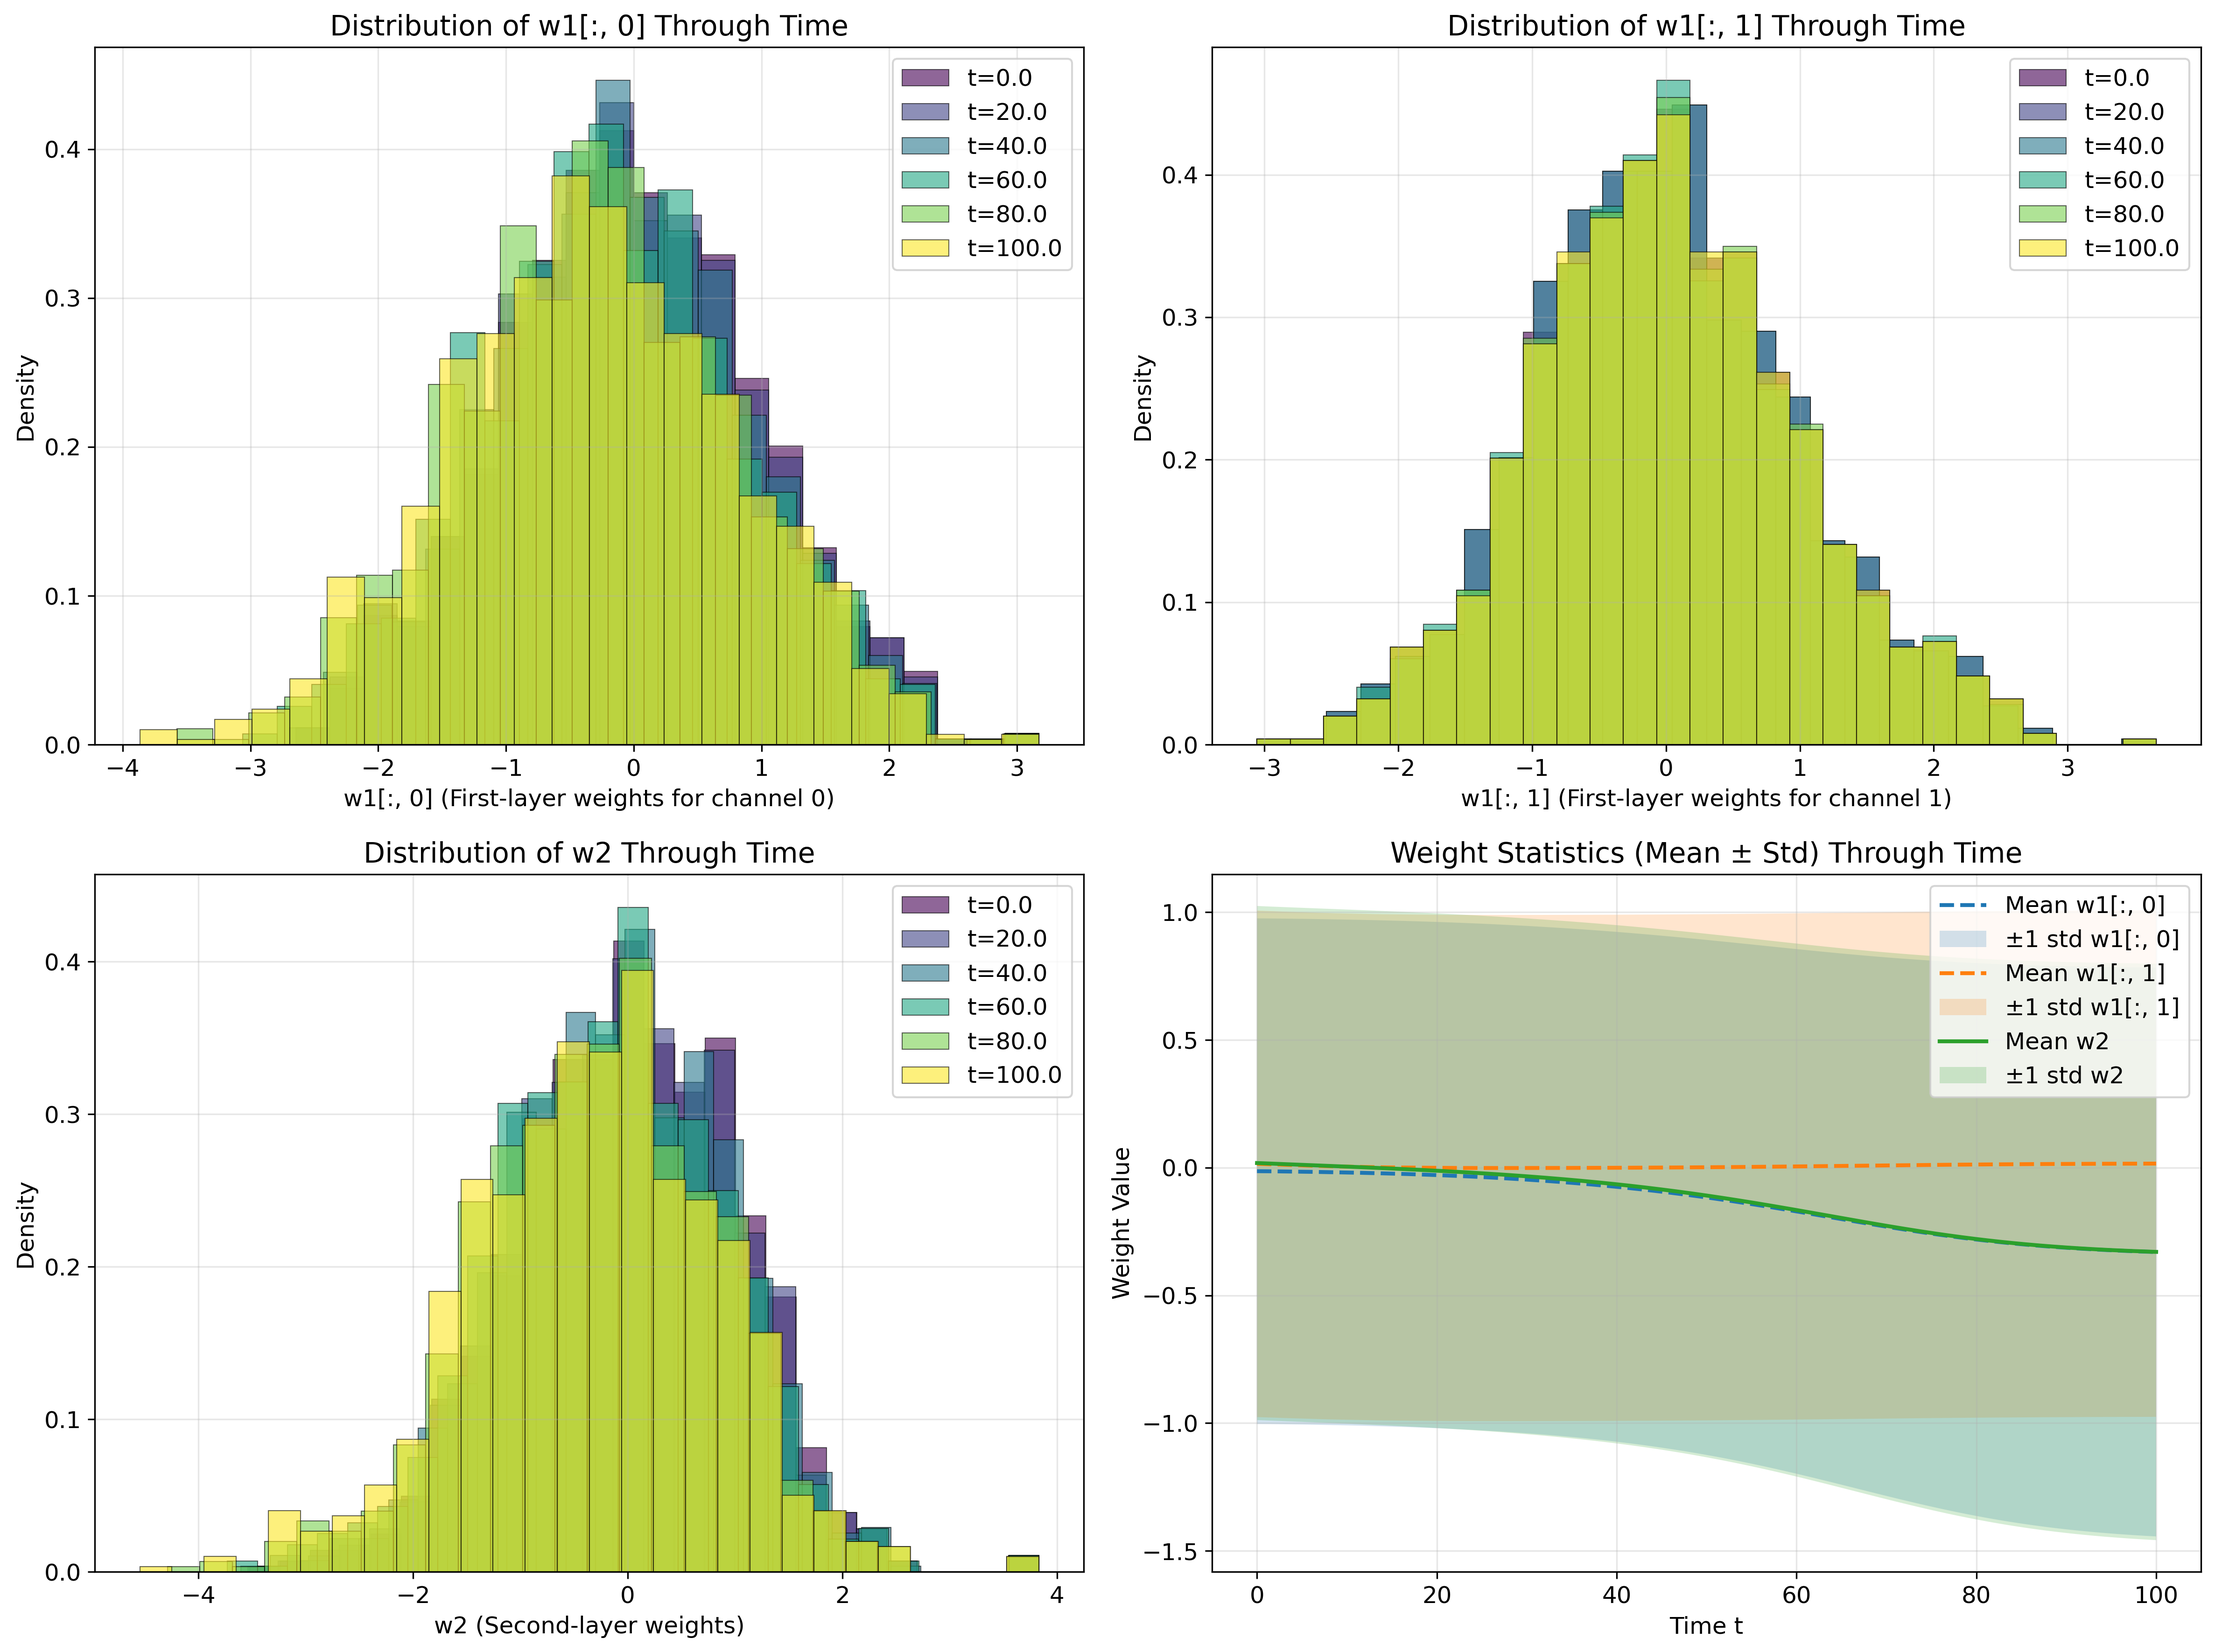
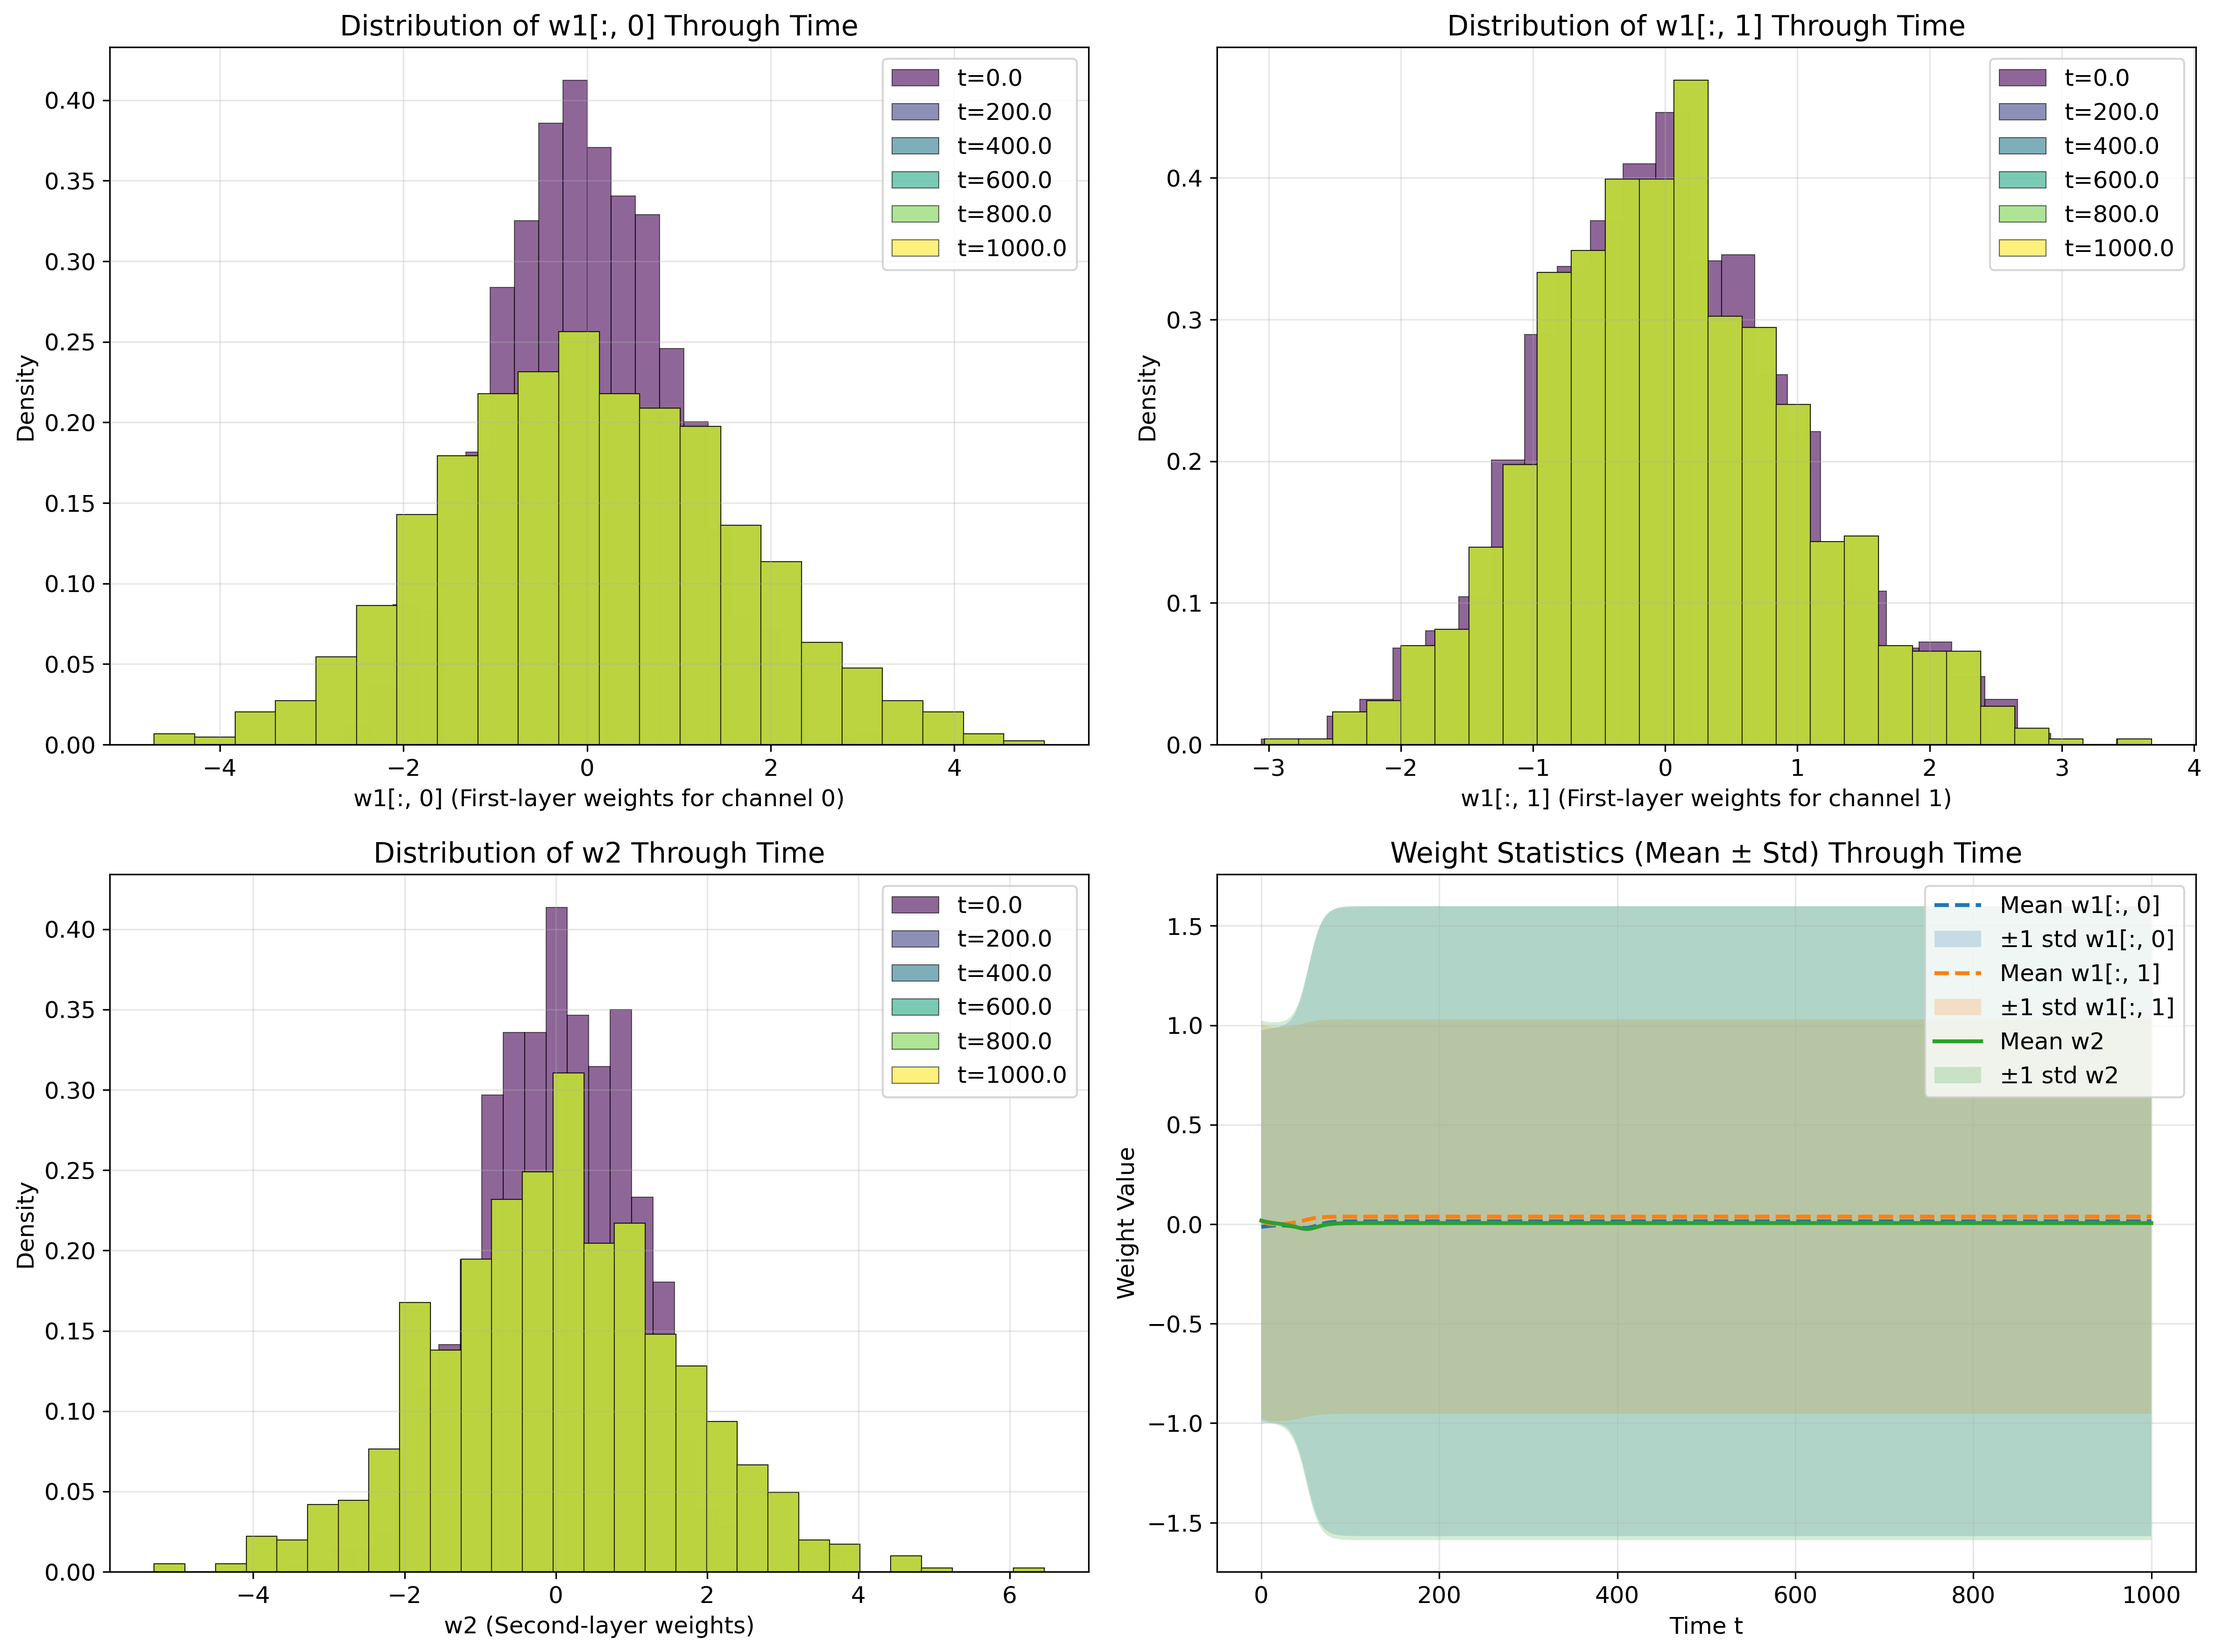
mean field eq sharpen variance

diff --git a/experiments/table/train_multi_frequency_benchmark.py b/experiments/table/train_multi_frequency_benchmark.py
@@ -53,9 +53,10 @@ def generate_configs():
     """we generate configurations to test"""
     configs = []
     
-    # we test different ranks and fixWb options
+    # we test different ranks, fixWb options, and batch sizes
     ranks = [10, 15, 20, 25, 50, 100]
     fixWb_options = [False, True]
+    batch_sizes = [50, 100, 200]  # we test 0.5x, 1x, and 2x batch sizes
     
     base_config = {
         "num_layers": 8,
@@ -64,7 +65,6 @@ def generate_configs():
         "output_rank": 1,
         "use_resnet": False,
         "num_epochs": 30000,
-        "batch_size": 100,
         "lr_init": 0.001,
         "lr_gamma": 0.9,
         "lr_step_size": 100,
@@ -79,12 +79,14 @@ def generate_configs():
     
     for rank in ranks:
         for fixWb in fixWb_options:
-            config = base_config.copy()
-            config.update({
-                "hidden_rank": rank,
-                "fixWb": fixWb,
-            })
-            configs.append(config)
+            for batch_size in batch_sizes:
+                config = base_config.copy()
+                config.update({
+                    "hidden_rank": rank,
+                    "fixWb": fixWb,
+                    "batch_size": batch_size,
+                })
+                configs.append(config)
     
     return configs
 
@@ -348,6 +350,7 @@ def main():
     print(f"\ngenerated {len(configs)} configurations")
     print(f"  ranks: {sorted(set(c['hidden_rank'] for c in configs))}")
     print(f"  fixWb: True, False")
+    print(f"  batch sizes: {sorted(set(c['batch_size'] for c in configs))}")
     print(f"  epochs: 30,000")
     print(f"  loss thresholds: 1e-1, 5e-2, 2e-2, 1e-2, 5e-3, 2e-3, 1e-3, ..., 1e-9 (all 1, 2, 5 for each order)")
     
@@ -362,12 +365,13 @@ def main():
     for i, config in enumerate(configs, 1):
         rank = config['hidden_rank']
         fixWb = config['fixWb']
-        output_dir_name = f"rank{rank}_fixWb{fixWb}"
+        batch_size = config['batch_size']
+        output_dir_name = f"rank{rank}_fixWb{fixWb}_batch{batch_size}"
         output_dir = base_output_dir / output_dir_name
         
         print(f"\n{'='*80}")
         print(f"Configuration {i}/{len(configs)}")
-        print(f"Rank: {rank}, fixWb: {fixWb}")
+        print(f"Rank: {rank}, fixWb: {fixWb}, batch_size: {batch_size}")
         print(f"Output: {output_dir}")
         print(f"{'='*80}")
         

diff --git a/experiments/table/meanfield_two_step_experiment.py b/experiments/table/meanfield_two_step_experiment.py
@@ -475,7 +475,7 @@ def run_experiment(output_dir):
     # we set up parameters
     n1, n2 = 1000, 1000  # we use width 1000
     r = 2  # we use 2 channels
-    t_span = (0, 100)  # we solve for 100 time units
+    t_span = (0, 1000)  # we solve for 1000 time units
     dt = 0.1
     
     print(f"\nNetwork Architecture:")
@@ -645,7 +645,7 @@ def run_experiment(output_dir):
     
     # we create a new figure for weight distributions through time
     print("\nCreating Weight Distribution Plots...")
-    time_points_for_dist = [0, 20, 40, 60, 80, 100]  # we plot distributions at these times
+    time_points_for_dist = [0, 200, 400, 600, 800, 1000]  # we plot distributions at these times
     time_indices_dist = [int(t / dt) for t in time_points_for_dist if t <= t_span[1]]
     
     fig, axes = plt.subplots(2, 2, figsize=(16, 12))
